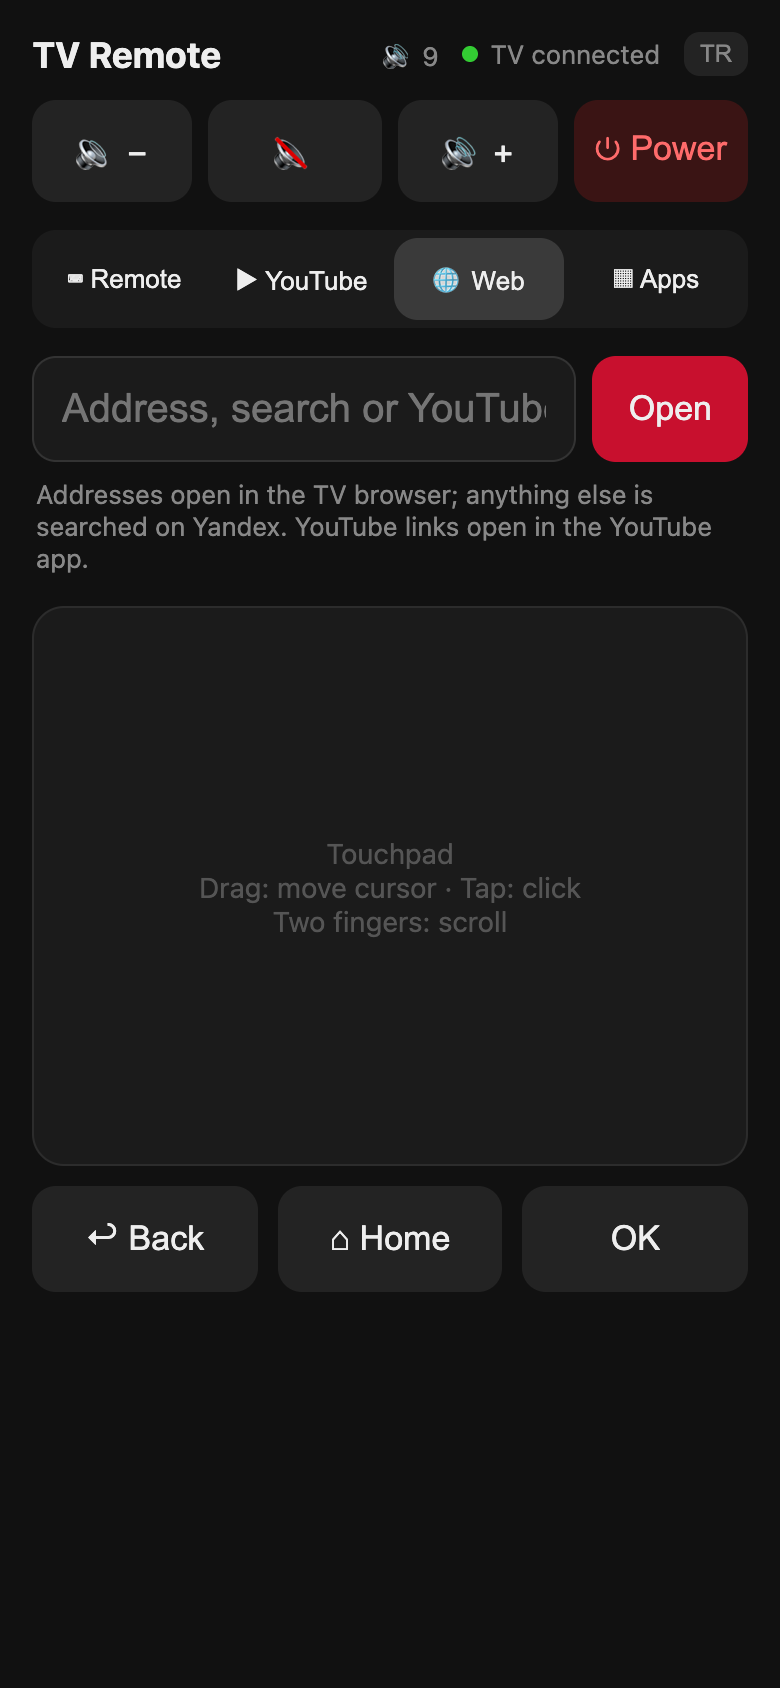
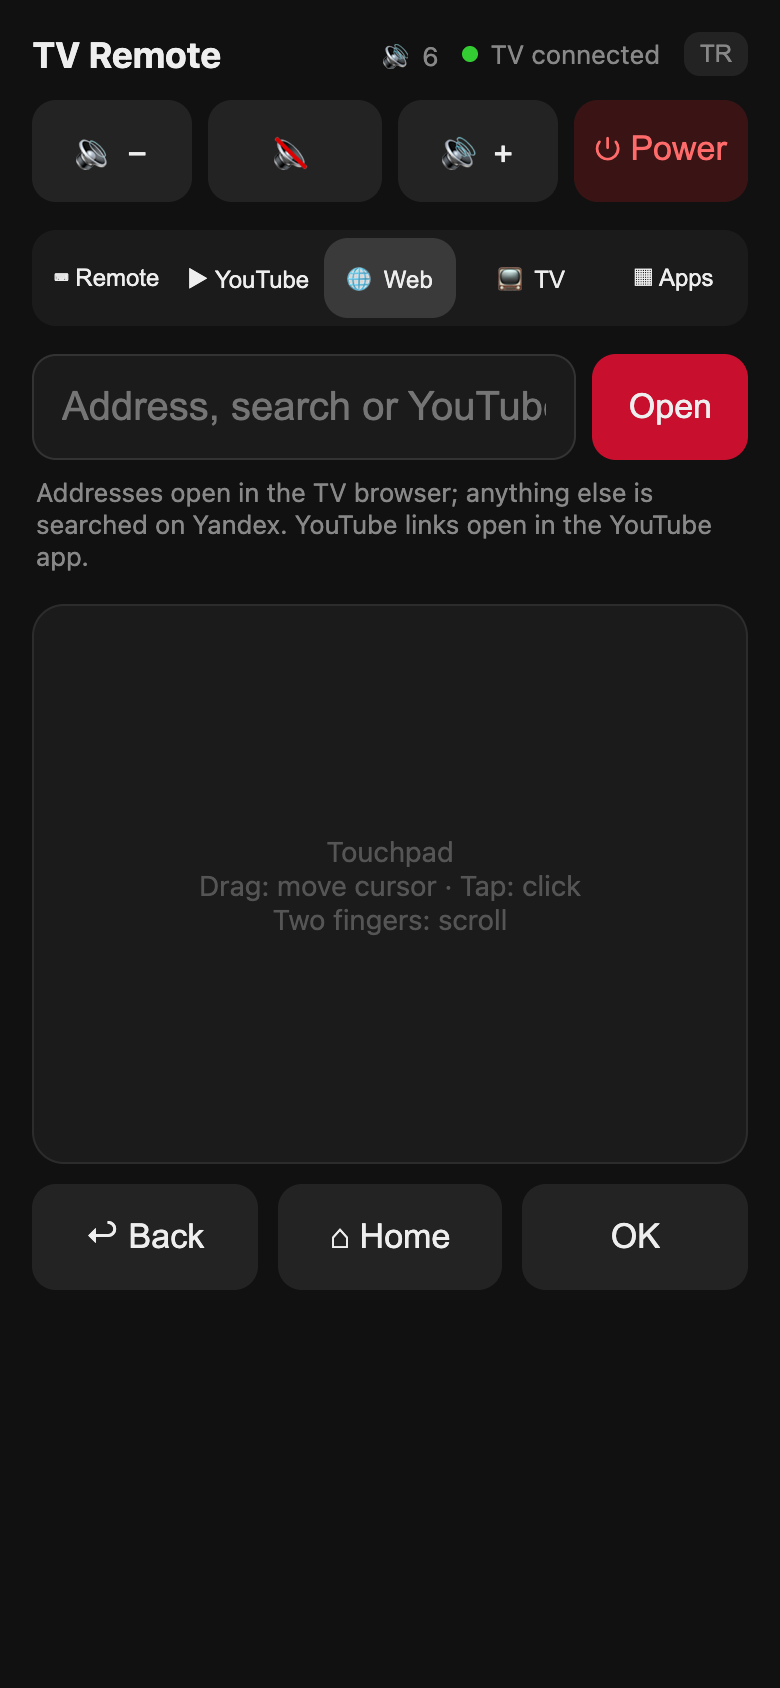
Add channel list screenshot and refresh README screenshots

diff --git a/README.md b/README.md
@@ -5,10 +5,11 @@ A small local server that lets you control an LG webOS TV from your phone's brow
 Built and tested with an LG C4 (OLED55C46LA, webOS 24). It should work on other webOS TVs as well.
 
 <p align="center">
-  <img src="docs/screenshots/remote.png" width="200" alt="Remote tab with keyboard input, arrow keys and media keys">
-  <img src="docs/screenshots/youtube.png" width="200" alt="YouTube tab with search results">
-  <img src="docs/screenshots/web.png" width="200" alt="Web tab with address bar and touchpad">
-  <img src="docs/screenshots/apps.png" width="200" alt="Apps tab with HDMI inputs and installed apps">
+  <img src="docs/screenshots/remote.png" width="160" alt="Remote tab with keyboard input, arrow keys and media keys">
+  <img src="docs/screenshots/youtube.png" width="160" alt="YouTube tab with search results">
+  <img src="docs/screenshots/web.png" width="160" alt="Web tab with address bar and touchpad">
+  <img src="docs/screenshots/channels.png" width="160" alt="TV tab with the channel list and what's on now">
+  <img src="docs/screenshots/apps.png" width="160" alt="Apps tab with HDMI inputs and installed apps">
 </p>
 
 ## Features
